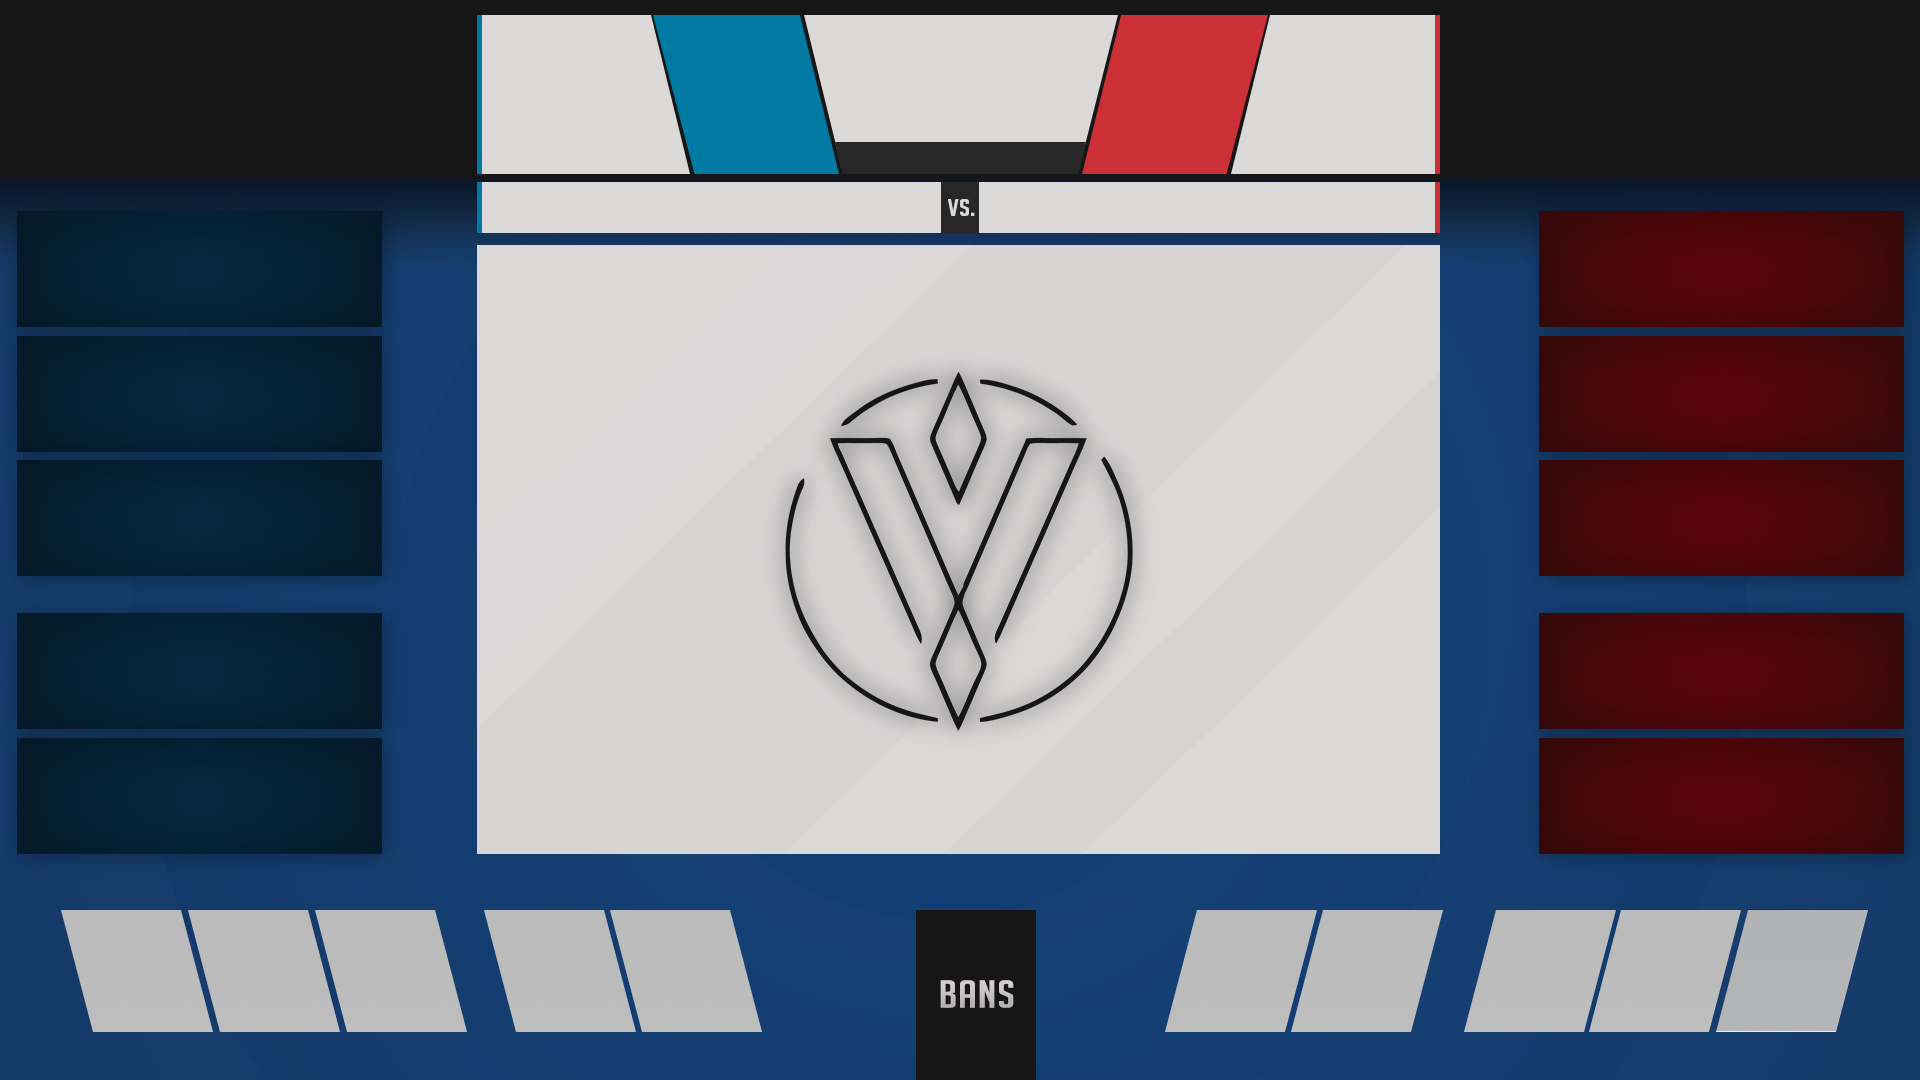
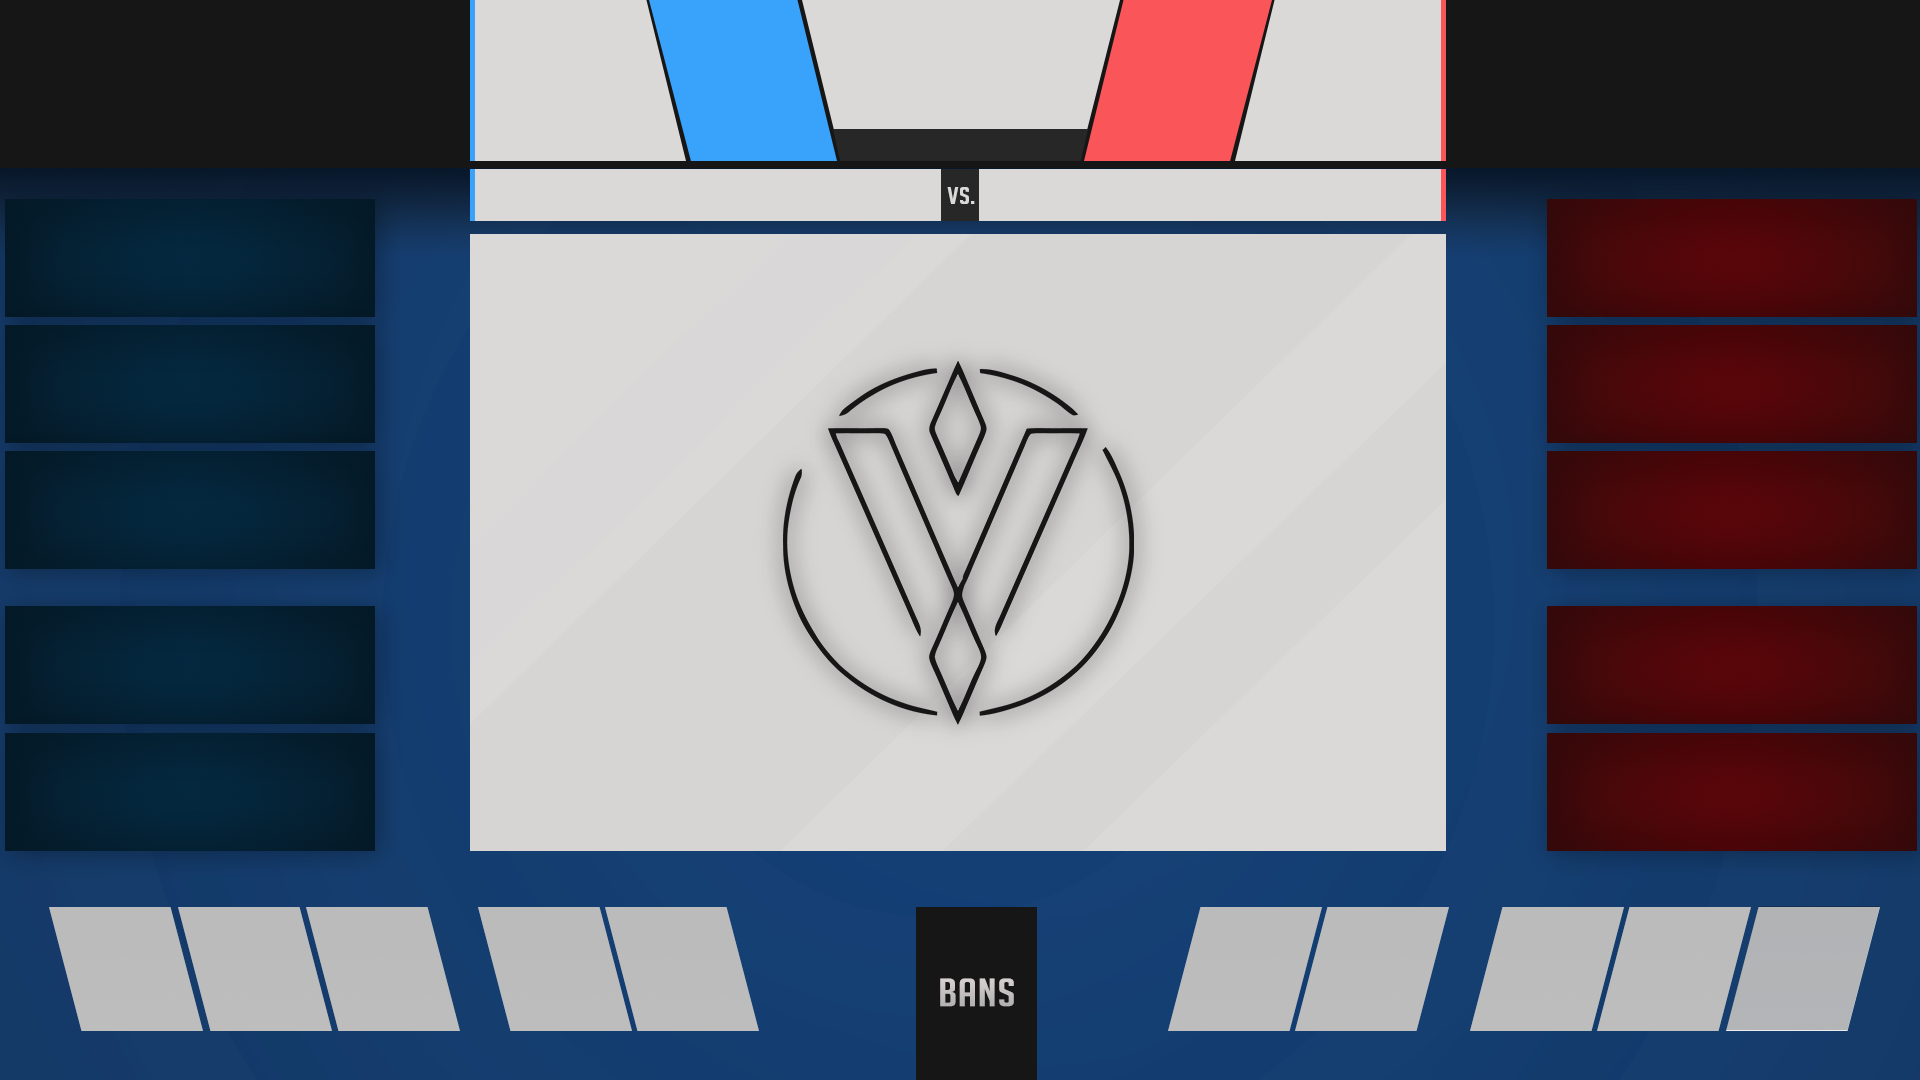
Correcting layout for new design from Marco <3

diff --git a/public/css/champ-select.css b/public/css/champ-select.css
@@ -32,21 +32,21 @@ body {
 /* Team images */
 .team-image {
     z-index: 49;
-    width: 208px;
-    height: 159px;
+    width: 211px;
+    height: 161px;
     background-size: 73%;
     background-repeat: no-repeat;
 }
 
 #ti-0 {
-    top: 15px;
-    left: 483px;
+    top: 0px;
+    left: 475px;
     background-position: 26% center;
     clip-path: polygon(0 0, 81% 0, 100% 100%, 0% 100%);
 }
 
 #ti-1 {
-    top: 15px;
+    top: 0px;
     left: 1230px;
     background-position: 74% center;
     clip-path: polygon(19% 0, 100% 0, 100% 100%, 0% 100%);
@@ -55,66 +55,66 @@ body {
 /* Player images */
 .player-image {
     z-index: 25;
-    width: 364px;
-    height: 116px;
+    width: 365px;
+    height: 118px;
     background-size: cover;
 }
 
 #si-0 {
-    top: 210px;
-    left: 18px;
+    top: 199px;
+    left: 5px;
 }
 
 #si-1 {
-    top: 335.25px;
-    left: 18px;
+    top: 325px;
+    left: 5px;
 }
 
 #si-2 {
-    top: 459.25px;
-    left: 18px;
+    top: 451px;
+    left: 5px;
 }
 
 #si-3 {
-    top: 612.25px;
-    left: 18px;
+    top: 606px;
+    left: 5px;
 }
 
 #si-4 {
-    top: 737.25px;
-    left: 18px;
+    top: 733px;
+    left: 5px;
 }
 
 #si-5 {
-    top: 210px;
-    left: 1541px;
+    top: 199px;
+    left: 1552px;
 }
 
 #si-6 {
-    top: 335.25px;
-    left: 1541px;
+    top: 325px;
+    left: 1552px;
 }
 
 #si-7 {
-    top: 459.25px;
-    left: 1541px;
+    top: 451px;
+    left: 1552px;
 }
 
 #si-8 {
-    top: 612.25px;
-    left: 1541px;
+    top: 606px;
+    left: 1552px;
 }
 
 #si-9 {
-    top: 737.25px;
-    left: 1541px;
+    top: 733px;
+    left: 1552px;
 }
 
 /* Ban images */
 .ban-image {
     z-index: 49;
-    width: 154px;
-    height: 122px;
+    width: 156px;
+    height: 124px;
     background-size: cover;
 }
 
@@ -127,53 +127,53 @@ body {
 }
 
 #b-0 {
-    top: 910px;
-    left: 60px;
+    top: 907px;
+    left: 48px;
 }
 
 #b-1 {
-    top: 910px;
-    left: 1715px;
+    top: 907px;
+    left: 1725px;
 }
 
 #b-2 {
-    top: 910px;
-    left: 187px;
+    top: 907px;
+    left: 177px;
 }
 
 #b-3 {
-    top: 910px;
-    left: 1588px;
+    top: 907px;
+    left: 1596px;
 }
 
 #b-4 {
-    top: 910px;
-    left: 314px;
+    top: 907px;
+    left: 305px;
 }
 
 #b-5 {
-    top: 910px;
-    left: 1463px;
+    top: 907px;
+    left: 1469px;
 }
 
 #b-6 {
-    top: 910px;
-    left: 483px;
+    top: 907px;
+    left: 477px;
 }
 
 #b-7 {
-    top: 910px;
-    left: 1290px;
+    top: 907px;
+    left: 1294px;
 }
 
 #b-8 {
-    top: 910px;
-    left: 609px;
+    top: 907px;
+    left: 604px;
 }
 
 #b-9 {
-    top: 910px;
-    left: 1164px;
+    top: 907px;
+    left: 1167px;
 }
 
 /* TEXT */
@@ -194,13 +194,13 @@ body {
 }
 
 .timer.blue {
-    top: 28px;
-    left: 692px;
+    top: 16px;
+    left: 689px;
 }
 
 .timer.red {
-    top: 28px;
-    left: 1116px;
+    top: 16px;
+    left: 1119px;
 }
 
 #phase {
@@ -209,7 +209,7 @@ body {
     font-size: 30px;
     font-family: 'BigNoodleTitling';
     text-align: center;
-    top: 142px;
+    top: 129px;
     left: 840px;
     text-shadow:  5px 5px 10px #222;
     color: #d6cfcf;
@@ -221,19 +221,19 @@ body {
     line-height: 51px;
     font-family: 'BigNoodleTitling';
     text-align: center;
-    width: 459px;
+    width: 462px;
     height: 51px;
     color: black;
 }
 
 /* Team names */
 #tn-0 {
-    top: 182px;
-    left: 482px;
+    top: 170px;
+    left: 477px;
 }
 
 #tn-1 {
-    top: 182px;
+    top: 170px;
     left: 979px;
 }
 
@@ -251,51 +251,51 @@ body {
 
 /* Player names */
 #sn-0 {
-    top: 299px;
-    left: 19px;
+    top: 289px;
+    left: 5px;
 }
 
 #sn-1 {
-    top: 424px;
-    left: 19px;
+    top: 414px;
+    left: 5px;
 }
 
 #sn-2 {
-    top: 548px;
-    left: 19px;
+    top: 541px;
+    left: 5px;
 }
 
 #sn-3 {
-    top: 701px;
-    left: 19px;
+    top: 696px;
+    left: 5px;
 }
 
 #sn-4 {
-    top: 826px;
-    left: 19px;
+    top: 822px;
+    left: 5px;
 }
 
 #sn-5 {
-    top: 299px;
-    left: 1545px;
+    top: 289px;
+    left: 1551px;
 }
 
 #sn-6 {
-    top: 424px;
-    left: 1545px;
+    top: 414px;
+    left: 1551px;
 }
 
 #sn-7 {
-    top: 548px;
-    left: 1545px;
+    top: 541px;
+    left: 1551px;
 }
 
 #sn-8 {
-    top: 701px;
-    left: 1545px;
+    top: 696px;
+    left: 1551px;
 }
 
 #sn-9 {
-    top: 826px;
-    left: 1545px;
+    top: 822px;
+    left: 1551px;
 }
